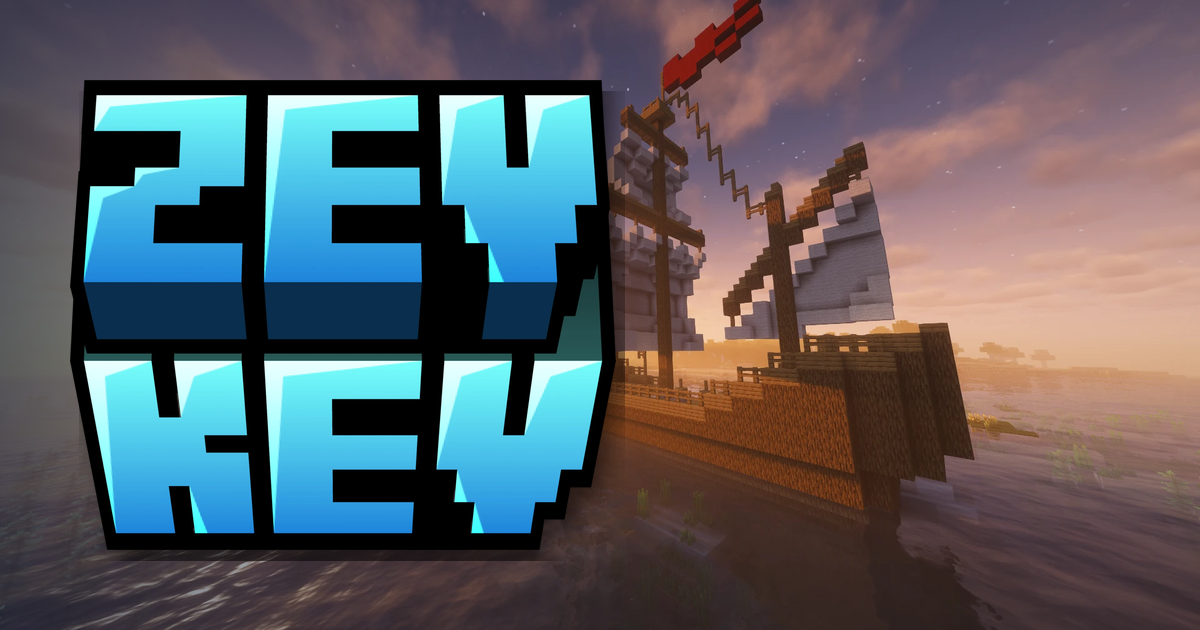
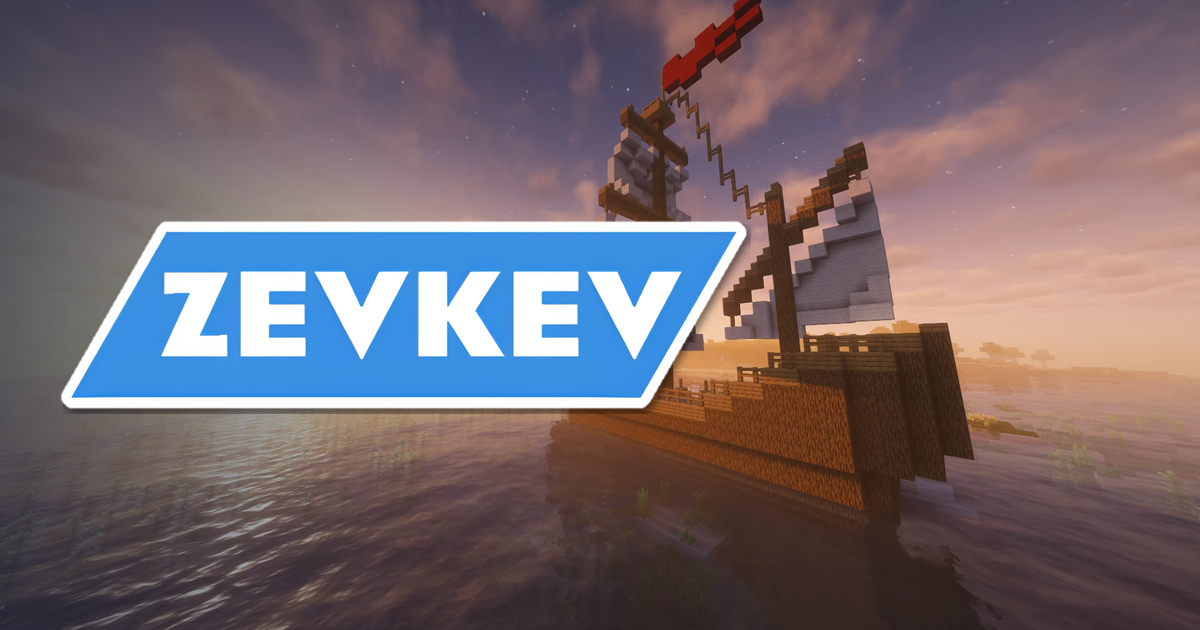
Website fertig: Vote-Seite mit allen Gewinnen, Galerie, Befehle, ZEVKEV-Schriftzug, VIP 'bald'
- /vote/: Belohnung, Ablauf, Inhalt der Vote-Kiste mit Chancen (aus der ZevCore-Config erzeugt), FAQ
- Startseite: Galerie (Screenshots), Wichtige Befehle, Navigation 'Voten' -> /vote/
- Logo und Vorschaubild wieder mit dem ZEVKEV-Schriftzug
- VIP als 'bald verfügbar' markiert, solange der Tebex-Shop noch nicht offen ist
- Sitemap um /vote/ ergänzt

diff --git a/vote/index.html b/vote/index.html
@@ -1,0 +1,168 @@
+<!doctype html>
+<html lang="de">
+<head>
+  <meta charset="utf-8">
+  <meta name="viewport" content="width=device-width, initial-scale=1">
+  <title>Voten – ZEVKEV Minecraft-Server</title>
+  <meta name="description" content="Vote für den ZEVKEV-Minecraft-Server (play.zevkev.de): pro Vote ein Scheck über 500 Coins und ein Vote-Schlüssel für die Vote-Kiste – alle Gewinne und Chancen offen.">
+  <link rel="canonical" href="https://play.zevkev.de/vote/">
+  <meta name="theme-color" content="#234d70">
+  <link rel="icon" type="image/png" sizes="32x32" href="/assets/img/favicon-32.png">
+  <link rel="icon" type="image/png" sizes="192x192" href="/assets/img/icon-192.png">
+  <link rel="apple-touch-icon" href="/assets/img/apple-touch-icon.png">
+  <meta property="og:type" content="website">
+  <meta property="og:site_name" content="ZEVKEV">
+  <meta property="og:title" content="Voten – ZEVKEV Minecraft-Server">
+  <meta property="og:description" content="Pro Vote: Scheck über 500 Coins + Vote-Schlüssel. Alle Gewinne der Vote-Kiste mit Chancen.">
+  <meta property="og:url" content="https://play.zevkev.de/vote/">
+  <meta property="og:image" content="https://play.zevkev.de/assets/img/og-image.png">
+  <meta property="og:locale" content="de_DE">
+  <link rel="preload" href="/assets/fonts/BebasNeue-Regular.woff2" as="font" type="font/woff2" crossorigin>
+  <link rel="stylesheet" href="/assets/css/site.css">
+  <script>
+    try {
+      var saved = localStorage.getItem("zevkev-theme");
+      var dark = saved ? saved === "dark" : matchMedia("(prefers-color-scheme: dark)").matches;
+      document.documentElement.setAttribute("data-theme", dark ? "dark" : "light");
+    } catch (e) { document.documentElement.setAttribute("data-theme", "light"); }
+  </script>
+  <script src="/assets/js/site.js" defer></script>
+</head>
+<body>
+  <header class="site-header">
+    <div class="container">
+      <a class="site-logo" href="/" aria-label="ZEVKEV Minecraft – Startseite">
+        <img src="/assets/img/server-icon.png" alt="" width="34" height="34">
+        <span>ZEVKEV <span class="logo-sub">Minecraft</span></span>
+      </a>
+      <nav class="site-nav" aria-label="Seitenbereiche">
+        <a href="/#mitspielen">Mitspielen</a>
+        <a href="/#features">Features</a>
+        <a href="/#karte">Karte</a>
+        <a href="/vote/" aria-current="page">Voten</a>
+        <a href="/vip/">VIP</a>
+        <a href="/#discord">Discord</a>
+      </nav>
+      <div class="header-actions">
+        <button class="theme-toggle" type="button" aria-label="Hell/Dunkel umschalten">
+          <span class="theme-toggle-scene" aria-hidden="true">
+            <svg class="theme-icon theme-icon-sun" viewBox="0 0 24 24" fill="none" stroke="currentColor" stroke-width="2" stroke-linecap="round"><circle cx="12" cy="12" r="4.5"/><path d="M12 2v2.5M12 19.5V22M4.2 4.2l1.8 1.8M18 18l1.8 1.8M2 12h2.5M19.5 12H22M4.2 19.8 6 18M18 6l1.8-1.8"/></svg>
+            <svg class="theme-icon theme-icon-moon" viewBox="0 0 24 24" fill="currentColor"><path d="M20.5 14.6A8.5 8.5 0 0 1 9.4 3.5a8.5 8.5 0 1 0 11.1 11.1z"/></svg>
+          </span>
+        </button>
+      </div>
+    </div>
+  </header>
+
+  <main class="page-body">
+    <section class="hero rip rip--accent reveal" aria-labelledby="vote-page-title">
+      <span class="tape" aria-hidden="true"></span>
+      <span class="tape tape--right" aria-hidden="true"></span>
+      <h1 id="vote-page-title">Voten &amp; Vote-Kiste</h1>
+      <p class="hero-lead">Jeder Vote bringt ZEVKEV in den Serverlisten nach oben – und dir eine Belohnung:
+        einen <b>Scheck über 500 Coins</b> und <b>einen Vote-Schlüssel</b>.</p>
+      <div class="vote-links" id="vote-links"></div>
+      <p class="vote-hint">Einmal pro Tag und Seite. Gib deinen Minecraft-Namen genau so ein, wie er im Spiel heißt.</p>
+    </section>
+
+    <div class="scissor-line" aria-hidden="true"></div>
+
+    <section class="section" aria-labelledby="vote-how-title">
+      <h2 class="section-title reveal" id="vote-how-title">So geht's</h2>
+      <div class="c-grid steps">
+        <article class="c-card rip tilt-a reveal">
+          <span class="step-num" aria-hidden="true">1</span>
+          <h3>Voten</h3>
+          <p>Oben auf den Knopf klicken, deinen Namen eintragen und den Vote absenden.</p>
+        </article>
+        <article class="c-card rip rip--b rip--accent tilt-b reveal">
+          <span class="step-num" aria-hidden="true">2</span>
+          <h3>Belohnung</h3>
+          <p>Bist du online, kommt sie sofort. Sonst wartet sie auf dich und kommt beim nächsten Login.</p>
+        </article>
+        <article class="c-card rip rip--c tilt-c reveal">
+          <span class="step-num" aria-hidden="true">3</span>
+          <h3>Kiste öffnen</h3>
+          <p>Mit dem Vote-Schlüssel in der Hand die Vote-Kiste am Spawn rechtsklicken.</p>
+        </article>
+        <article class="c-card rip rip--b tilt-a reveal">
+          <span class="step-num" aria-hidden="true">4</span>
+          <h3>Scheck einlösen</h3>
+          <p>Rechtsklick mit dem Scheck – die Coins landen auf deinem Konto. Oder du handelst ihn weiter.</p>
+        </article>
+      </div>
+    </section>
+
+    <div class="scissor-line" aria-hidden="true"></div>
+
+    <section class="section" aria-labelledby="loot-title">
+      <h2 class="section-title reveal" id="loot-title">Das steckt in der Kiste</h2>
+      <article class="paper rip rip--b reveal loot-card">
+        <span class="tape" aria-hidden="true"></span>
+        <table class="loot-table">
+          <caption>20 mögliche Gewinne – ein Schlüssel öffnet die Kiste einmal</caption>
+          <thead><tr><th scope="col">Gewinn</th><th scope="col">Seltenheit</th><th scope="col" class="num">Chance</th></tr></thead>
+          <tbody>
+            <tr><td>32 Steinziegel</td><td><span class="loot-rarity r-common">häufig</span></td><td class="num">10 %</td></tr>
+            <tr><td>32 Kohle</td><td><span class="loot-rarity r-common">häufig</span></td><td class="num">10 %</td></tr>
+            <tr><td>16 Eisenbarren</td><td><span class="loot-rarity r-common">häufig</span></td><td class="num">10 %</td></tr>
+            <tr><td>16 Eichenstamm</td><td><span class="loot-rarity r-common">häufig</span></td><td class="num">9 %</td></tr>
+            <tr><td>Scheck über 250 Coins</td><td><span class="loot-rarity r-common">häufig</span></td><td class="num">9 %</td></tr>
+            <tr><td>16 Steak</td><td><span class="loot-rarity r-common">häufig</span></td><td class="num">8 %</td></tr>
+            <tr><td>32 Glas</td><td><span class="loot-rarity r-uncommon">gelegentlich</span></td><td class="num">7 %</td></tr>
+            <tr><td>8 Goldbarren</td><td><span class="loot-rarity r-uncommon">gelegentlich</span></td><td class="num">6 %</td></tr>
+            <tr><td>2 Diamant</td><td><span class="loot-rarity r-uncommon">gelegentlich</span></td><td class="num">6 %</td></tr>
+            <tr><td>16 Erfahrungsfläschchen</td><td><span class="loot-rarity r-uncommon">gelegentlich</span></td><td class="num">5 %</td></tr>
+            <tr><td>8 Smaragd</td><td><span class="loot-rarity r-uncommon">gelegentlich</span></td><td class="num">4 %</td></tr>
+            <tr><td>Scheck über 1.000 Coins</td><td><span class="loot-rarity r-uncommon">gelegentlich</span></td><td class="num">4 %</td></tr>
+            <tr><td>1 Goldener Apfel</td><td><span class="loot-rarity r-uncommon">gelegentlich</span></td><td class="num">3 %</td></tr>
+            <tr><td>1 Vote-Schlüssel</td><td><span class="loot-rarity r-uncommon">gelegentlich</span></td><td class="num">3 %</td></tr>
+            <tr><td>6 Diamant <span class="loot-star">alle sehen’s</span></td><td><span class="loot-rarity r-rare">selten</span></td><td class="num">1,5 %</td></tr>
+            <tr><td>1 Namensschild</td><td><span class="loot-rarity r-rare">selten</span></td><td class="num">1,5 %</td></tr>
+            <tr><td>1 Sattel</td><td><span class="loot-rarity r-rare">selten</span></td><td class="num">1 %</td></tr>
+            <tr><td>1 Verzaubertes Buch (Reparatur) <span class="loot-star">alle sehen’s</span></td><td><span class="loot-rarity r-rare">selten</span></td><td class="num">1 %</td></tr>
+            <tr><td>Scheck über 5.000 Coins <span class="loot-star">alle sehen’s</span></td><td><span class="loot-rarity r-epic">sehr selten</span></td><td class="num">0,5 %</td></tr>
+            <tr><td>1 Netheritschrott <span class="loot-star">alle sehen’s</span></td><td><span class="loot-rarity r-epic">sehr selten</span></td><td class="num">0,5 %</td></tr>
+          </tbody>
+          <tfoot><tr><td colspan="2">Alle Chancen zusammen</td><td class="num">100 %</td></tr></tfoot>
+        </table>
+        <p class="vote-hint"><span class="loot-star">alle sehen’s</span> = der ganze Server sieht deinen Gewinn. Im Spiel zeigt ein Linksklick auf die Kiste dieselbe Liste.</p>
+      </article>
+    </section>
+
+    <div class="scissor-line" aria-hidden="true"></div>
+
+    <section class="section two-col" aria-label="Fragen zum Voten">
+      <article class="paper rip rip--c reveal" aria-labelledby="vote-faq-title">
+        <span class="tape" aria-hidden="true"></span>
+        <h2 id="vote-faq-title">Gut zu wissen</h2>
+        <ul class="rules">
+          <li>Die Vote-Kiste steht am Spawn (X Y Z: 8 67 255) – <code>/spawn</code> bringt dich hin.</li>
+          <li>Verpasste Votes werden gesammelt (bis zu 10) und beim nächsten Login ausgezahlt.</li>
+          <li>Schecks und Schlüssel sind handelbar, lassen sich aber nicht verbauen oder verarbeiten.</li>
+          <li>Jeder Scheck hat eine eigene Nummer und lässt sich nur einmal einlösen.</li>
+          <li>Im Spiel: <code>/vote</code> zeigt alle Vote-Links und deine Statistik.</li>
+        </ul>
+      </article>
+      <article class="paper rip rip--b reveal" aria-labelledby="vote-why-title">
+        <span class="tape tape--right" aria-hidden="true"></span>
+        <h2 id="vote-why-title">Warum voten?</h2>
+        <p>Serverlisten sortieren nach Votes. Je mehr Stimmen ZEVKEV hat, desto mehr neue Spieler finden zu uns –
+          und desto lebendiger wird die Welt. Ein Vote dauert keine Minute.</p>
+        <p>Danke, dass du hilfst!</p>
+      </article>
+    </section>
+  </main>
+
+  <footer class="site-footer">
+    <div class="footer-inner">
+      <nav class="footer-links" aria-label="Weitere Seiten">
+        <a href="/">play.zevkev.de</a>
+        <a href="https://zevkev.de/impressum/">Impressum</a>
+        <a href="https://zevkev.de/datenschutz/">Datenschutz</a>
+      </nav>
+      <p class="footer-note">Kein offizielles Minecraft-Produkt. Nicht von Mojang oder Microsoft genehmigt oder mit ihnen verbunden.</p>
+    </div>
+  </footer>
+</body>
+</html>

diff --git a/index.html b/index.html
@@ -56,7 +56,7 @@
         <a href="#mitspielen">Mitspielen</a>
         <a href="#features">Features</a>
         <a href="#karte">Karte</a>
-        <a href="#voten">Voten</a>
+        <a href="/vote/">Voten</a>
         <a href="#regeln">Regeln</a>
         <a href="/vip/">VIP</a>
         <a href="#discord">Discord</a>
@@ -77,7 +77,7 @@
     <section class="hero rip rip--accent reveal" aria-labelledby="hero-title">
       <span class="tape" aria-hidden="true"></span>
       <span class="tape tape--right" aria-hidden="true"></span>
-      <img class="hero-logo" src="/assets/img/zevkev-logo.png" alt="ZEVKEV" width="720" height="620">
+      <img class="hero-logo" src="/assets/img/zevkev-logo.png" alt="ZEVKEV" width="960" height="265">
       <h1 id="hero-title">Survival-Server für Minecraft&nbsp;Java</h1>
       <p class="hero-lead">Bauen, claimen, handeln – mit fairer Wirtschaft, großem Shop, Vote-Kiste und einer netten Community.</p>
 
@@ -193,6 +193,36 @@
 
     <div class="scissor-line" aria-hidden="true"></div>
 
+    <section class="section" id="galerie" aria-labelledby="gallery-title">
+      <h2 class="section-title reveal" id="gallery-title">Eindrücke</h2>
+      <div class="gallery">
+        <figure class="shot rip rip--photo tilt-a reveal">
+          <a href="/assets/img/galerie/schiff-sonnenuntergang.webp" target="_blank" rel="noopener">
+            <img src="/assets/img/galerie/schiff-sonnenuntergang-800.webp" srcset="/assets/img/galerie/schiff-sonnenuntergang-800.webp 800w, /assets/img/galerie/schiff-sonnenuntergang.webp 1600w"
+                 sizes="(max-width: 700px) 92vw, 33vw" width="800" height="450" loading="lazy" alt="Selbstgebautes Segelschiff im Sonnenuntergang auf dem Meer">
+          </a>
+          <figcaption>Abendfahrt im Sonnenuntergang</figcaption>
+        </figure>
+        <figure class="shot rip rip--photo tilt-b reveal">
+          <a href="/assets/img/galerie/schiff-kueste.webp" target="_blank" rel="noopener">
+            <img src="/assets/img/galerie/schiff-kueste-800.webp" srcset="/assets/img/galerie/schiff-kueste-800.webp 800w, /assets/img/galerie/schiff-kueste.webp 1600w"
+                 sizes="(max-width: 700px) 92vw, 33vw" width="800" height="450" loading="lazy" alt="Segelschiff vor der Küste, im Vordergrund Gras am Ufer">
+          </a>
+          <figcaption>Vor Anker an der Küste</figcaption>
+        </figure>
+        <figure class="shot rip rip--photo tilt-c reveal">
+          <a href="/assets/img/galerie/schiff-nacht.webp" target="_blank" rel="noopener">
+            <img src="/assets/img/galerie/schiff-nacht-800.webp" srcset="/assets/img/galerie/schiff-nacht-800.webp 800w, /assets/img/galerie/schiff-nacht.webp 1600w"
+                 sizes="(max-width: 700px) 92vw, 33vw" width="800" height="450" loading="lazy" alt="Segelschiff bei Nacht unter einem Sternenhimmel mit Polarlicht">
+          </a>
+          <figcaption>Nachtwache unter Sternen</figcaption>
+        </figure>
+      </div>
+      <p class="section-note reveal">Gebaut auf ZEVKEV – aufgenommen mit Shadern.</p>
+    </section>
+
+    <div class="scissor-line" aria-hidden="true"></div>
+
     <section class="section" id="voten" aria-labelledby="vote-title">
       <h2 class="section-title reveal" id="vote-title">Voten</h2>
       <article class="paper rip rip--c reveal vote-card">
@@ -200,7 +230,8 @@
         <p>Dein Vote bringt den Server in den Serverlisten nach oben. Als Dankeschön gibt es pro Vote einen
           <b>Scheck über 500 Coins</b> und einen <b>Vote-Schlüssel</b> für die Kiste am Spawn – auch wenn du gerade offline bist.</p>
         <div class="vote-links" id="vote-links"></div>
-        <p class="vote-hint">Im Spiel: <code>/vote</code> zeigt alle Links, Linksklick auf die Vote-Kiste zeigt den Inhalt mit Chancen.</p>
+        <p class="vote-hint">Im Spiel: <code>/vote</code> zeigt alle Links, Linksklick auf die Vote-Kiste zeigt den Inhalt mit Chancen.
+          <a href="/vote/">Alle Gewinne und Chancen ansehen</a></p>
       </article>
     </section>
 
@@ -237,7 +268,7 @@
         <h2 id="ranks-title">Ränge</h2>
         <ul class="ranks">
           <li><img src="/assets/img/badges/spieler.png" alt="SPIELER" width="46" height="9"><span>Jeder ab dem ersten Login – bis 15 Claims</span></li>
-          <li><img src="/assets/img/badges/vip.png" alt="VIP" width="22" height="9"><span>Unterstützt den Server – 25 statt 15 Claims. <a href="/vip/">VIP werden</a></span></li>
+          <li><img src="/assets/img/badges/vip.png" alt="VIP" width="22" height="9"><span>Unterstützt den Server – 25 statt 15 Claims. <span class="soon-tag">bald</span> <a href="/vip/">Mehr erfahren</a></span></li>
           <li><img src="/assets/img/badges/freunde.png" alt="FREUND" width="40" height="9"><span>Freunde des Servers</span></li>
           <li><img src="/assets/img/badges/mod.png" alt="MOD" width="22" height="9"><span>Team – hilft und moderiert</span></li>
           <li><img src="/assets/img/badges/owner.png" alt="OWNER" width="34" height="9"><span>Serverleitung</span></li>
@@ -259,6 +290,32 @@
         </ol>
         <p class="rules-note">Verstöße: Warnung, Kick oder Bann. Ingame jederzeit: <code>/regeln</code></p>
       </article>
+    </section>
+
+    <div class="scissor-line" aria-hidden="true"></div>
+
+    <section class="section" id="befehle" aria-labelledby="commands-title">
+      <h2 class="section-title reveal" id="commands-title">Wichtige Befehle</h2>
+      <article class="paper rip rip--c reveal cmd-card">
+        <span class="tape" aria-hidden="true"></span>
+        <ul class="cmd-grid">
+          <li><code>/regeln</code><span>Regeln, Befehle, Tipps</span></li>
+          <li><code>/menue</code><span>Server-Menü</span></li>
+          <li><code>/shop</code><span>Baustoffe, Deko, Essen</span></li>
+          <li><code>/jobs browse</code><span>Job aussuchen</span></li>
+          <li><code>/joblimit</code><span>Dein Job-Limit</span></li>
+          <li><code>/claim</code><span>Chunk sichern</span></li>
+          <li><code>/vote</code><span>Voten + Belohnung</span></li>
+          <li><code>/paycheck 1000</code><span>Geld als Scheck</span></li>
+          <li><code>/ah</code><span>Auktionshaus</span></li>
+          <li><code>/sethome Haus</code><span>Zuhause setzen</span></li>
+          <li><code>/tpa Name</code><span>Zu Freunden</span></li>
+          <li><code>/rtp</code><span>Zufallsort</span></li>
+          <li><code>/spawn</code><span>Zum Spawn</span></li>
+          <li><code>/vip</code><span>VIP-Infos</span></li>
+        </ul>
+      </article>
+      <p class="section-note reveal">Alles Weitere steht im Regelbuch, das sich beim ersten Beitritt öffnet.</p>
     </section>
 
     <!-- Discord -->

diff --git a/assets/css/site.css b/assets/css/site.css
@@ -227,8 +227,37 @@ h1, h2, h3, .display-font {
   padding: 52px 44px 44px;
   display: flex; flex-direction: column; align-items: center; text-align: center;
 }
-.hero-logo { width: min(300px, 66%); height: auto; filter: drop-shadow(0 4px 6px rgba(0,0,0,.18)); }
+.hero-logo { width: min(520px, 88%); height: auto; filter: drop-shadow(0 4px 6px rgba(0,0,0,.18)); }
 .vote-card { max-width: 760px; margin: 0 auto; }
+.vote-hint a { color: var(--mc-blue); font-weight: bold; }
+.soon-tag { display: inline-block; padding: 1px 9px; border-radius: 999px; background: #d99a1a; color: #fff; font-size: 0.8rem; font-weight: bold; text-transform: uppercase; letter-spacing: .04em; vertical-align: 1px; }
+.soon-banner { margin: 6px 0 14px; font-weight: bold; }
+.step-num { display: inline-grid; place-items: center; width: 42px; height: 42px; border-radius: 50%; background: var(--mc-blue);
+  color: #fff; font: 1.5rem/1 "Bebas Neue", Impact, sans-serif; margin-bottom: 10px; }
+.c-grid.steps { grid-template-columns: repeat(2, minmax(0, 1fr)); max-width: 760px; margin: 0 auto; }
+@media (min-width: 1100px) { .c-grid.steps { grid-template-columns: repeat(4, minmax(0, 1fr)); max-width: none; } }
+@media (max-width: 560px) { .c-grid.steps { grid-template-columns: 1fr; } }
+.loot-card { max-width: 760px; width: 100%; margin: 0 auto; }
+.loot-table { width: 100%; border-collapse: collapse; font-size: 0.98rem; }
+.loot-table caption { caption-side: top; text-align: left; color: var(--text-muted); margin-bottom: 10px; }
+.loot-table th, .loot-table td { padding: 7px 8px; border-bottom: 1px solid rgba(0,0,0,.1); text-align: left; }
+:root[data-theme="dark"] .loot-table th, :root[data-theme="dark"] .loot-table td { border-bottom-color: rgba(255,255,255,.1); }
+.loot-table .num { text-align: right; white-space: nowrap; font-variant-numeric: tabular-nums; }
+.loot-table tfoot td { font-weight: bold; border-bottom: 0; }
+.loot-rarity { display: inline-block; padding: 1px 8px; border-radius: 999px; font-size: 0.82rem; font-weight: bold; color: #fff; }
+.r-common { background: #6b7a8a; } .r-uncommon { background: #2f7d4f; } .r-rare { background: #2f62d9; } .r-epic { background: #8a3fbf; }
+.loot-star { display: inline-block; margin-left: 6px; padding: 0 7px; border-radius: 999px; background: #d99a1a; color: #fff; font-size: 0.78rem; font-weight: bold; vertical-align: 1px; }
+.gallery { display: grid; grid-template-columns: repeat(auto-fit, minmax(260px, 1fr)); gap: 34px; width: 100%; }
+.shot { margin: 0; padding: 10px 10px 8px; background: #fff; box-shadow: 0 6px 18px rgba(0,0,0,.18); }
+:root[data-theme="dark"] .shot { background: #1d2733; }
+.shot img { display: block; width: 100%; height: auto; }
+.shot figcaption { padding: 8px 4px 2px; font-size: 0.92rem; color: var(--text-muted); text-align: center; }
+.cmd-card { width: 100%; max-width: 980px; margin: 0 auto; }
+.cmd-grid { list-style: none; margin: 0; padding: 0; width: 100%; display: grid; grid-template-columns: repeat(auto-fit, minmax(220px, 1fr)); gap: 12px; }
+.cmd-grid li { display: flex; flex-direction: column; gap: 4px; padding: 12px 14px; border: 2px dashed rgba(0,0,0,.16); border-radius: 10px; }
+:root[data-theme="dark"] .cmd-grid li { border-color: rgba(255,255,255,.14); }
+.cmd-grid code { font-weight: bold; color: var(--mc-blue); }
+.cmd-grid span { color: var(--text-muted); font-size: 0.92rem; }
 .vote-hint { text-align: center; color: var(--text-muted); font-size: .95rem; margin: 6px 0 0; }
 .vote-links { display: flex; flex-wrap: wrap; gap: 12px; justify-content: center; margin: 18px 0 6px; }
 .hero h1 { font-size: clamp(2rem, 5vw, 3.2rem); margin: 22px 0 8px; }

diff --git a/vip/index.html b/vip/index.html
@@ -39,7 +39,7 @@
         <a href="/#mitspielen">Mitspielen</a>
         <a href="/#features">Features</a>
         <a href="/#karte">Karte</a>
-        <a href="/#voten">Voten</a>
+        <a href="/vote/">Voten</a>
         <a href="/vip/" aria-current="page">VIP</a>
         <a href="/#discord">Discord</a>
       </nav>
@@ -60,6 +60,7 @@
       <span class="tape tape--right" aria-hidden="true"></span>
       <img class="vip-badge" src="/assets/img/badges/vip.png" alt="VIP-Abzeichen" width="22" height="9">
       <h1 id="vip-title">Unterstütze ZEVKEV</h1>
+      <p class="soon-banner"><span class="soon-tag">bald</span> Der VIP-Shop öffnet in Kürze – Preise und Vorteile stehen schon fest.</p>
       <p class="hero-lead">Server, Domain und viele Stunden Arbeit kosten Geld. Mit dem VIP-Rang hilfst du, dass ZEVKEV weiterläuft – und bekommst ein kleines Dankeschön.</p>
     </section>
 
